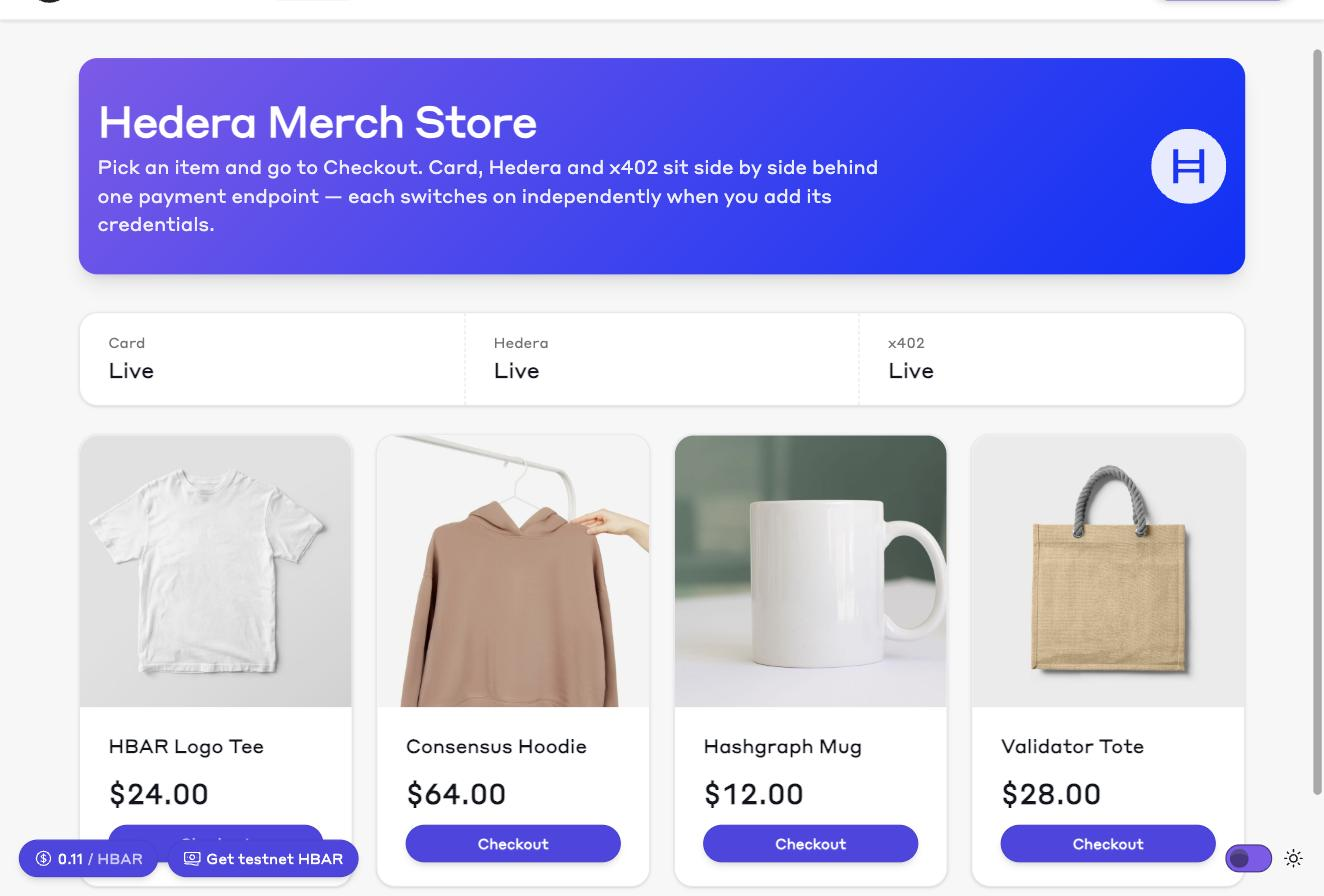
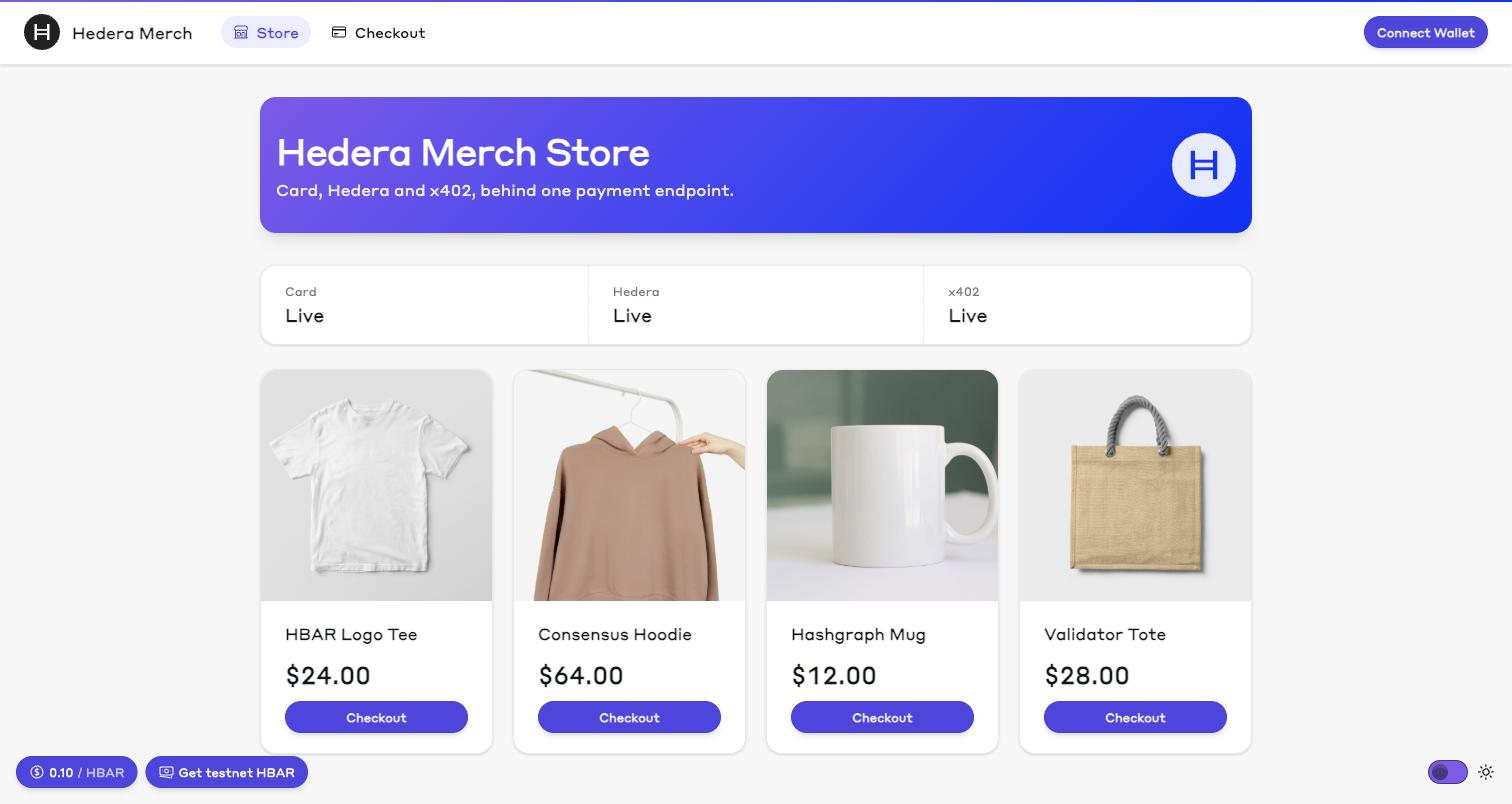
ui: cut the checkout copy back to what a glance needs
The rail cards were explaining the protocol in the UI. A card that reads
"Stripe settles the card and answers the 402 challenge on the buyer's behalf"
above "Running in demo mode — set STRIPE_SECRET_KEY STRIPE_PUBLISHABLE_KEY
STRIPE_NETWORK_ID in packages/nextjs/.env to enable this rail" is a paragraph
where a label would do, three times over, and it pushed the pay buttons below
the fold.

Each rail is now one short line, and the demo note is the variable names
alone — those are the only part a first run actually needs, and the path
stays because there is no .env at the repo root to find. Also drops the
"detection is per-integration" aside, shortens the protocol footer to two
links, and cuts the store hero to one line.

None of this leaves the repo: the README, AGENTS.md and docs/mpp-vs-x402.md
still carry the full explanation, which is where someone goes when they want
it rather than when they are trying to buy a hoodie.

Screenshots re-taken, since the old ones showed the old copy.

diff --git a/packages/nextjs/app/checkout/page.tsx b/packages/nextjs/app/checkout/page.tsx
@@ -27,22 +27,21 @@ export default async function CheckoutPage({ searchParams }: CheckoutPageProps) 
   const paymentOptions = [
     {
       label: "Card",
-      description: "Stripe settles the card and answers the 402 challenge on the buyer's behalf.",
+      description: "Settled by Stripe.",
       envVars: ["STRIPE_SECRET_KEY", "STRIPE_PUBLISHABLE_KEY", "STRIPE_NETWORK_ID"],
       enabled: cardEnabled,
       action: <CardPayButton productId={product.id} priceUsd={product.priceUsd} enabled={cardEnabled} />,
     },
     {
       label: "Hedera",
-      description: `Native USDC (${USDC_TOKEN_ID}) transfer on Hedera, bound to the challenge by a 32-byte attribution memo and confirmed on the Mirror Node.`,
+      description: `Native USDC (${USDC_TOKEN_ID}) transfer on Hedera.`,
       envVars: ["HEDERA_OPERATOR_ID", "HEDERA_OPERATOR_KEY"],
       enabled: hederaEnabled,
       action: <HederaPayButton productId={product.id} priceUsd={product.priceUsd} enabled={hederaEnabled} />,
     },
     {
       label: "x402",
-      description:
-        "The same purchase settled through an x402 facilitator — a third rail on the same USDC and the same merchant account.",
+      description: "Same USDC, settled over x402.",
       envVars: ["AX402_FACILITATOR_URL"],
       enabled: x402Enabled,
       action: <X402PayButton productId={product.id} priceUsd={product.priceUsd} enabled={x402Enabled} />,
@@ -86,10 +85,7 @@ export default async function CheckoutPage({ searchParams }: CheckoutPageProps) 
           </div>
         </div>
 
-        <h2 className="text-xl font-semibold m-0 mb-1">Payment options</h2>
-        <p className="text-sm text-base-content/70 m-0 mb-5">
-          Detection is per-integration — configuring one rail does not stub out the others.
-        </p>
+        <h2 className="text-xl font-semibold m-0 mb-5">Payment options</h2>
 
         <section aria-label="Payment options" className="grid gap-5 grid-cols-1 md:grid-cols-3">
           {paymentOptions.map(option => (
@@ -97,21 +93,16 @@ export default async function CheckoutPage({ searchParams }: CheckoutPageProps) 
           ))}
         </section>
 
-        <div className="alert mt-8 border border-base-300 bg-base-100 shadow-sm">
-          <span className="text-sm">
-            Every rail settles through one endpoint. Inspect the raw protocol at{" "}
-            <Link href={`/api/pay?product=${product.id}`} className="link link-primary font-mono text-xs">
-              /api/pay?product={product.id}
-            </Link>{" "}
-            — it answers <code className="bg-base-300/40 px-1 py-0.5 rounded text-xs">402</code> with a{" "}
-            <code className="bg-base-300/40 px-1 py-0.5 rounded text-xs">WWW-Authenticate: Payment</code> challenge, or
-            see a{" "}
-            <Link href={`/receipt/${product.id}`} className="link link-primary font-medium">
-              sample receipt
-            </Link>
-            .
-          </span>
-        </div>
+        <p className="text-sm text-base-content/60 mt-8 m-0">
+          Raw protocol:{" "}
+          <Link href={`/api/pay?product=${product.id}`} className="link link-primary font-mono text-xs">
+            /api/pay?product={product.id}
+          </Link>{" "}
+          ·{" "}
+          <Link href={`/receipt/${product.id}`} className="link link-primary">
+            sample receipt
+          </Link>
+        </p>
       </div>
     </div>
   );

diff --git a/packages/nextjs/components/PaymentOption.tsx b/packages/nextjs/components/PaymentOption.tsx
@@ -38,16 +38,16 @@ export const PaymentOption = ({ label, description, envVars, enabled, icon, acti
         )}
 
         {!enabled && (
-          <p className="text-xs text-base-content/60 m-0">
-            Running in <span className="font-semibold">demo mode</span> — set{" "}
-            {envVars.map((name, index) => (
-              <React.Fragment key={name}>
-                {index > 0 && " "}
-                <code className="bg-base-300 px-1 py-0.5 rounded text-[11px]">{name}</code>
-              </React.Fragment>
-            ))}{" "}
-            in <code className="bg-base-300 px-1 py-0.5 rounded text-[11px]">packages/nextjs/.env</code> to enable this
-            rail.
+          // The variable names are the one thing a first run actually needs; everything
+          // else about this rail is in the README.
+          <p className="text-xs text-base-content/60 m-0 flex flex-wrap gap-1 items-center">
+            <span>Set in</span>
+            <code className="bg-base-300 px-1 py-0.5 rounded text-[11px]">packages/nextjs/.env</code>
+            {envVars.map(name => (
+              <code key={name} className="bg-base-300 px-1 py-0.5 rounded text-[11px]">
+                {name}
+              </code>
+            ))}
           </p>
         )}
       </div>

diff --git a/packages/nextjs/app/page.tsx b/packages/nextjs/app/page.tsx
@@ -21,10 +21,7 @@ export default function StorePage() {
           <div className="hero-content w-full flex-col md:flex-row items-start md:items-center justify-between gap-4 py-7 sm:py-8">
             <div>
               <h1 className="text-3xl sm:text-4xl font-bold tracking-tight m-0">Hedera Merch Store</h1>
-              <p className="text-white/90 mt-2 mb-0 max-w-2xl">
-                Pick an item and go to Checkout. Card, Hedera and x402 sit side by side behind one payment endpoint —
-                each switches on independently when you add its credentials.
-              </p>
+              <p className="text-white/90 mt-2 mb-0 max-w-2xl">Card, Hedera and x402, behind one payment endpoint.</p>
             </div>
             <Image
               src="/Hedera-Icon-White.svg"

diff --git a/packages/nextjs/components/X402PayButton.tsx b/packages/nextjs/components/X402PayButton.tsx
@@ -77,8 +77,7 @@ export const X402PayButton = ({ productId, priceUsd, enabled }: X402PayButtonPro
 
       {enabled && !burnerAvailable && (
         <p className="text-xs text-base-content/60 m-0">
-          Inject a test key at <code className="bg-base-300 px-1 py-0.5 rounded text-[11px]">burnerWallet.pk</code> to
-          pay with x402 — run <code className="bg-base-300 px-1 py-0.5 rounded text-[11px]">yarn make:burner</code>.
+          Needs a local key — run <code className="bg-base-300 px-1 py-0.5 rounded text-[11px]">yarn make:burner</code>.
         </p>
       )}
 
